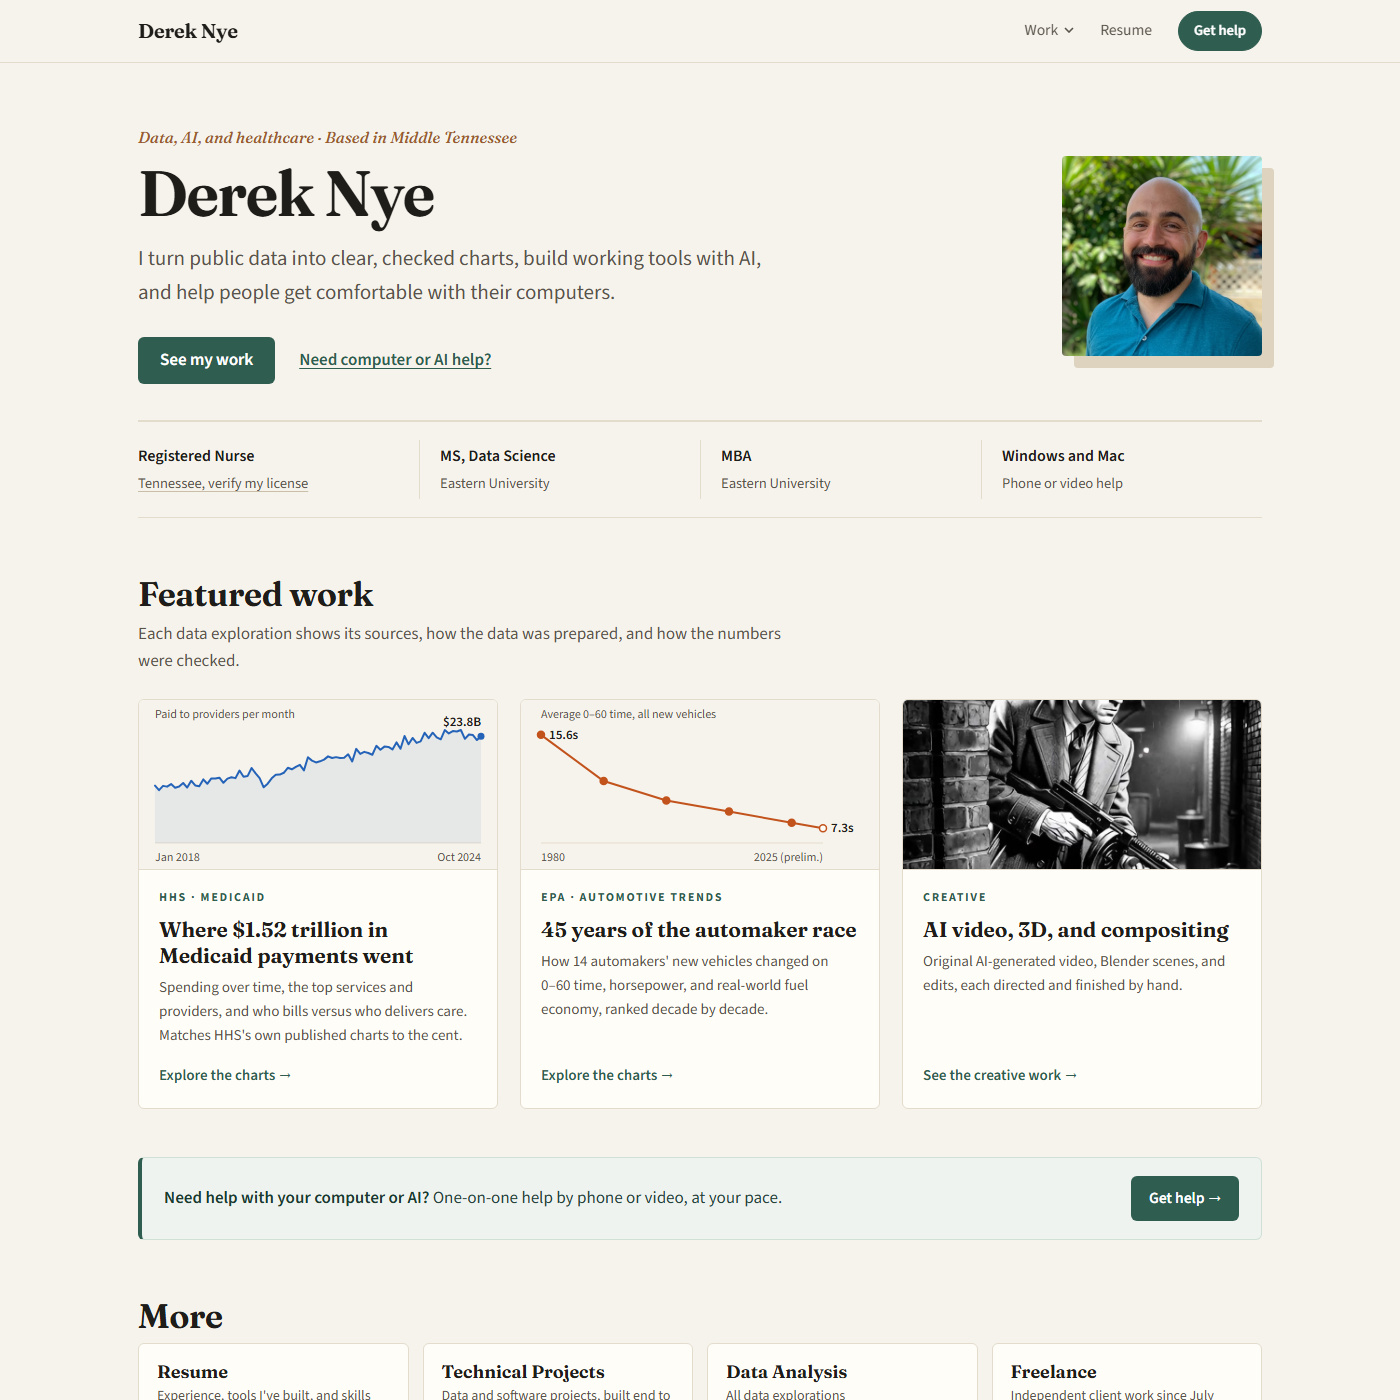
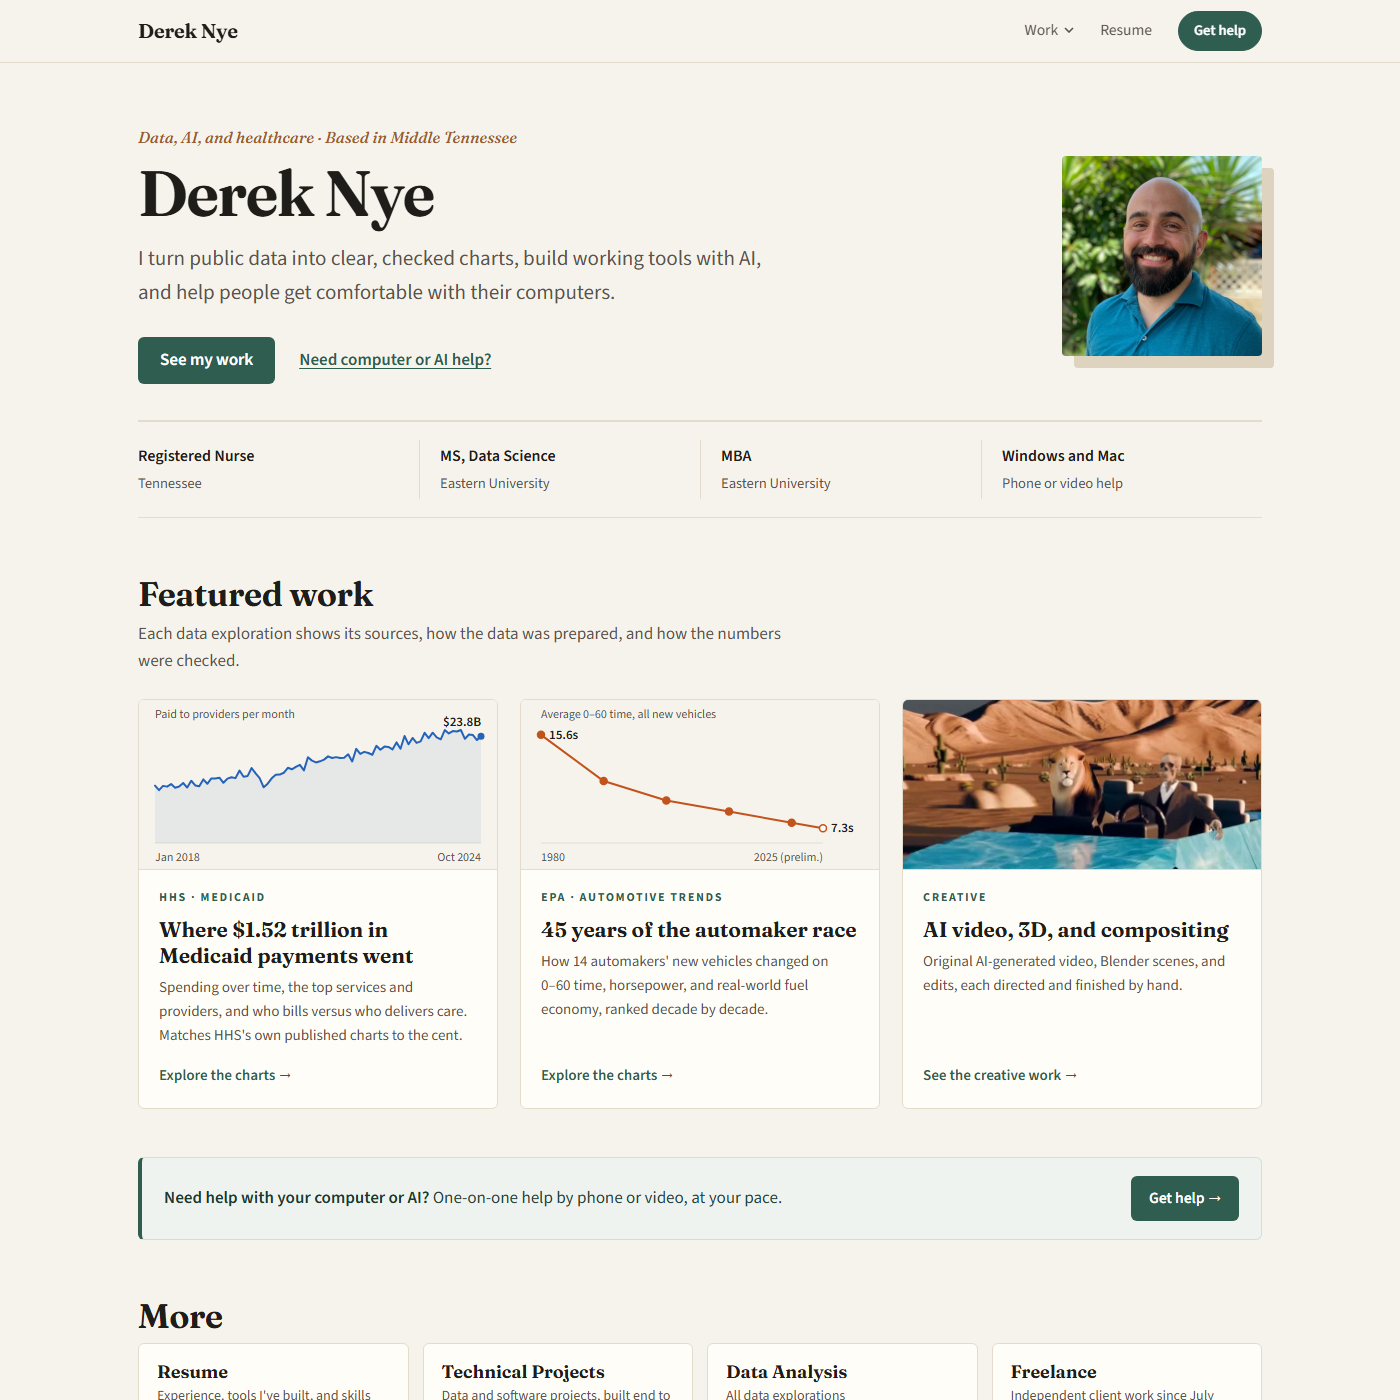
Use a lighter Creative still on the Home page and in the site screenshot

Changed region(s): [[0.645, 0.4914, 0.9214, 0.645], [0.1536, 0.3379, 0.215, 0.3686]]

diff --git a/index.html b/index.html
@@ -43,7 +43,7 @@
 .feat:hover{border-color:var(--accent);box-shadow:0 10px 28px rgba(31,29,26,.08)}
 .feat .viz{height:170px;background:#f6f3ec;border-bottom:1px solid var(--line);position:relative}
 .feat .viz svg{display:block;width:100%;height:100%}
-.feat .viz img{display:block;width:100%;height:100%;object-fit:cover;object-position:center 30%}
+.feat .viz img{display:block;width:100%;height:100%;object-fit:cover;object-position:center 40%}
 .feat .body{padding:18px 20px 20px;display:flex;flex-direction:column;flex:1}
 .feat .k{font-size:12px;letter-spacing:.14em;text-transform:uppercase;color:var(--accent);font-weight:700;margin:0 0 8px}
 .feat .t{font:650 21px/1.25 var(--serif);margin:0 0 8px}
@@ -112,7 +112,7 @@
         </div>
       </a>
       <a class="feat" href="content-production.html">
-        <div class="viz"><img src="posters/noir-trailer.jpg" width="768" height="1168" alt="Still from an AI-generated noir trailer" loading="lazy"></div>
+        <div class="viz"><img src="posters/desert-drive.jpg" width="720" height="360" alt="Still from a Blender scene: a skeleton and a lion driving through the desert" loading="lazy"></div>
         <div class="body">
           <p class="k">Creative</p>
           <p class="t">AI video, 3D, and compositing</p>
